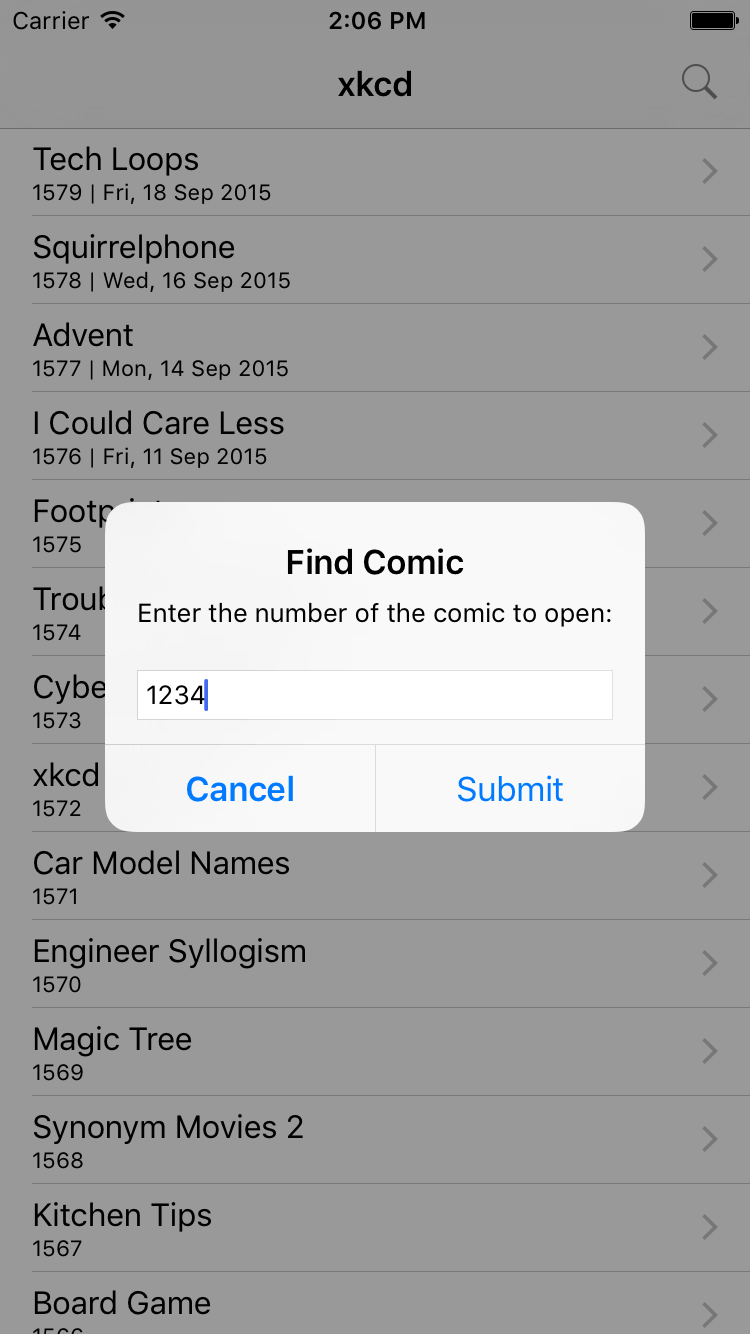
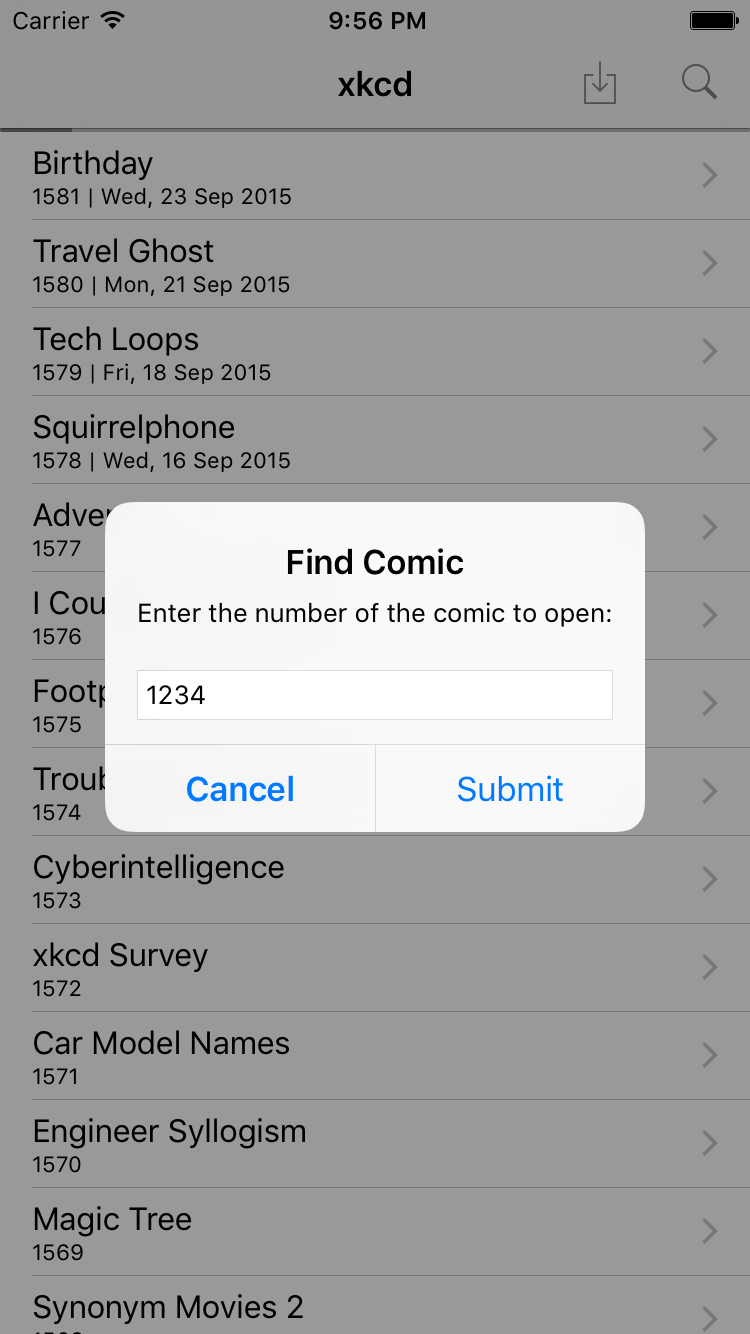
Update screenshots

diff --git a/xkcd/MasterViewController.swift b/xkcd/MasterViewController.swift
@@ -10,6 +10,11 @@ import UIKit
 
 class MasterViewController: UITableViewController, NSXMLParserDelegate {
     
+    
+    // TODO: Check for network connectivity before attempting to download data
+    
+    
+    
     // **************************
     // MARK: - Instance Variables
     // **************************
@@ -29,6 +34,7 @@ class MasterViewController: UITableViewController, NSXMLParserDelegate {
     // Key for saving and loading to NSUserDefaults
     let kAllComics = "comics"
 
+    // Progress bar
     @IBOutlet weak var progressView: UIProgressView!
 
     // ******************
@@ -130,6 +136,7 @@ class MasterViewController: UITableViewController, NSXMLParserDelegate {
     /// - parameters:
     ///     - string: `String` containing the comic number
     func searchForComicByNumber(string: String) {
+        
         
         let urlString = NSURL(string: "http://xkcd.com/" + string)
         let urlRequest = NSURLRequest(URL: urlString!)
@@ -526,7 +533,7 @@ class MasterViewController: UITableViewController, NSXMLParserDelegate {
     // MARK: - XMLParser
     // *****************
     
-    // This should be in its own class
+    // TODO: This should be in its own class
     
     var entryTitle: String!
     var entryLink: String!

diff --git a/README.md b/README.md
@@ -6,7 +6,7 @@ A simple iOS app for viewing the latest XKCD comics.  Currently a work in progre
 
 ![Screenshot 1](/Screenshots/1.png?raw=true "Home")
 
-![Screenshot 2](/Screenshots/2.png?raw=true "More")
+![Screenshot 2](/Screenshots/2.png?raw=true "Download all")
 
 ![Screenshot 3](/Screenshots/3.png?raw=true "Search")
 
